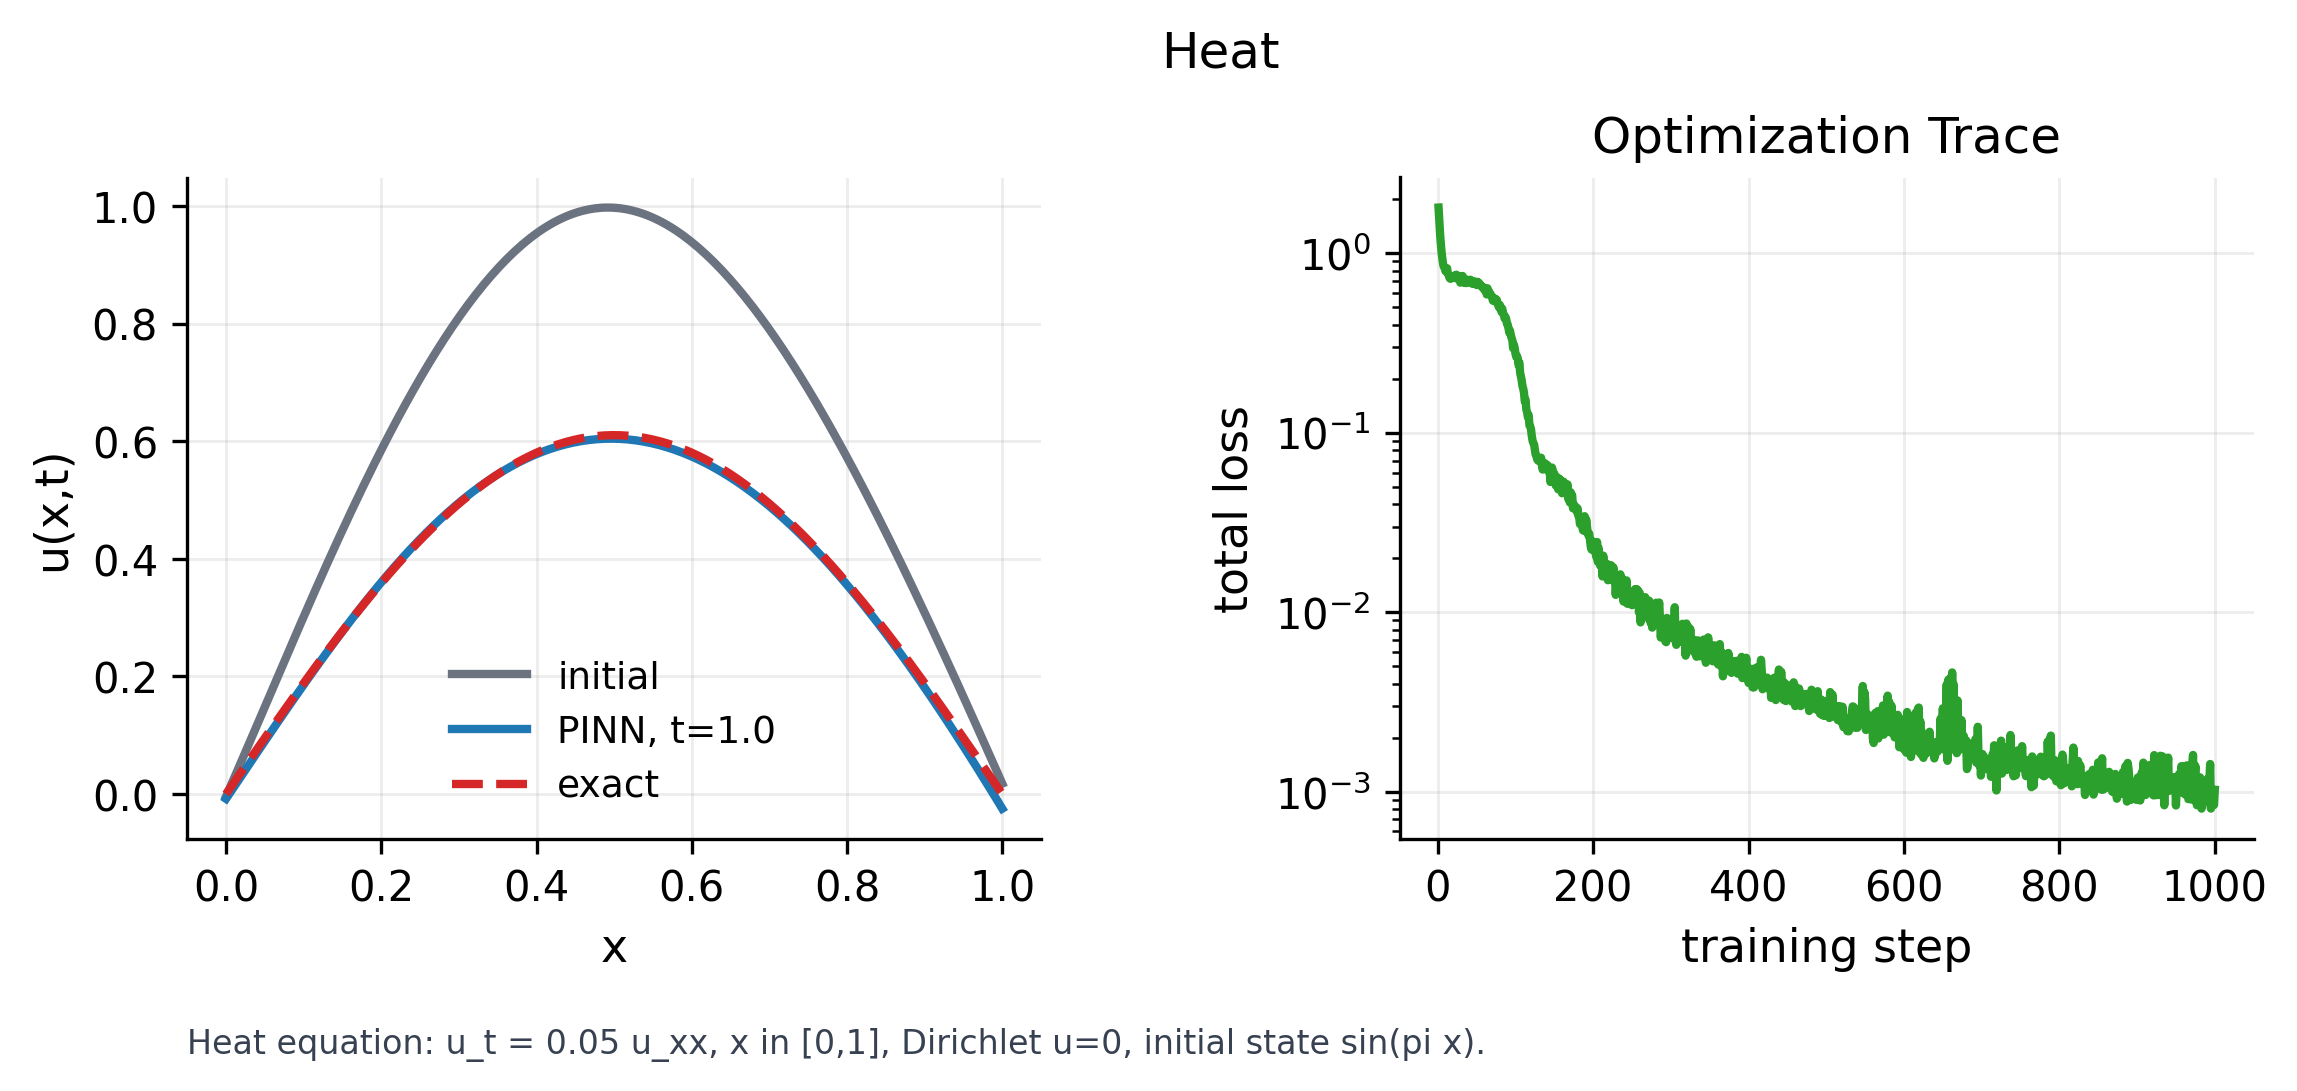
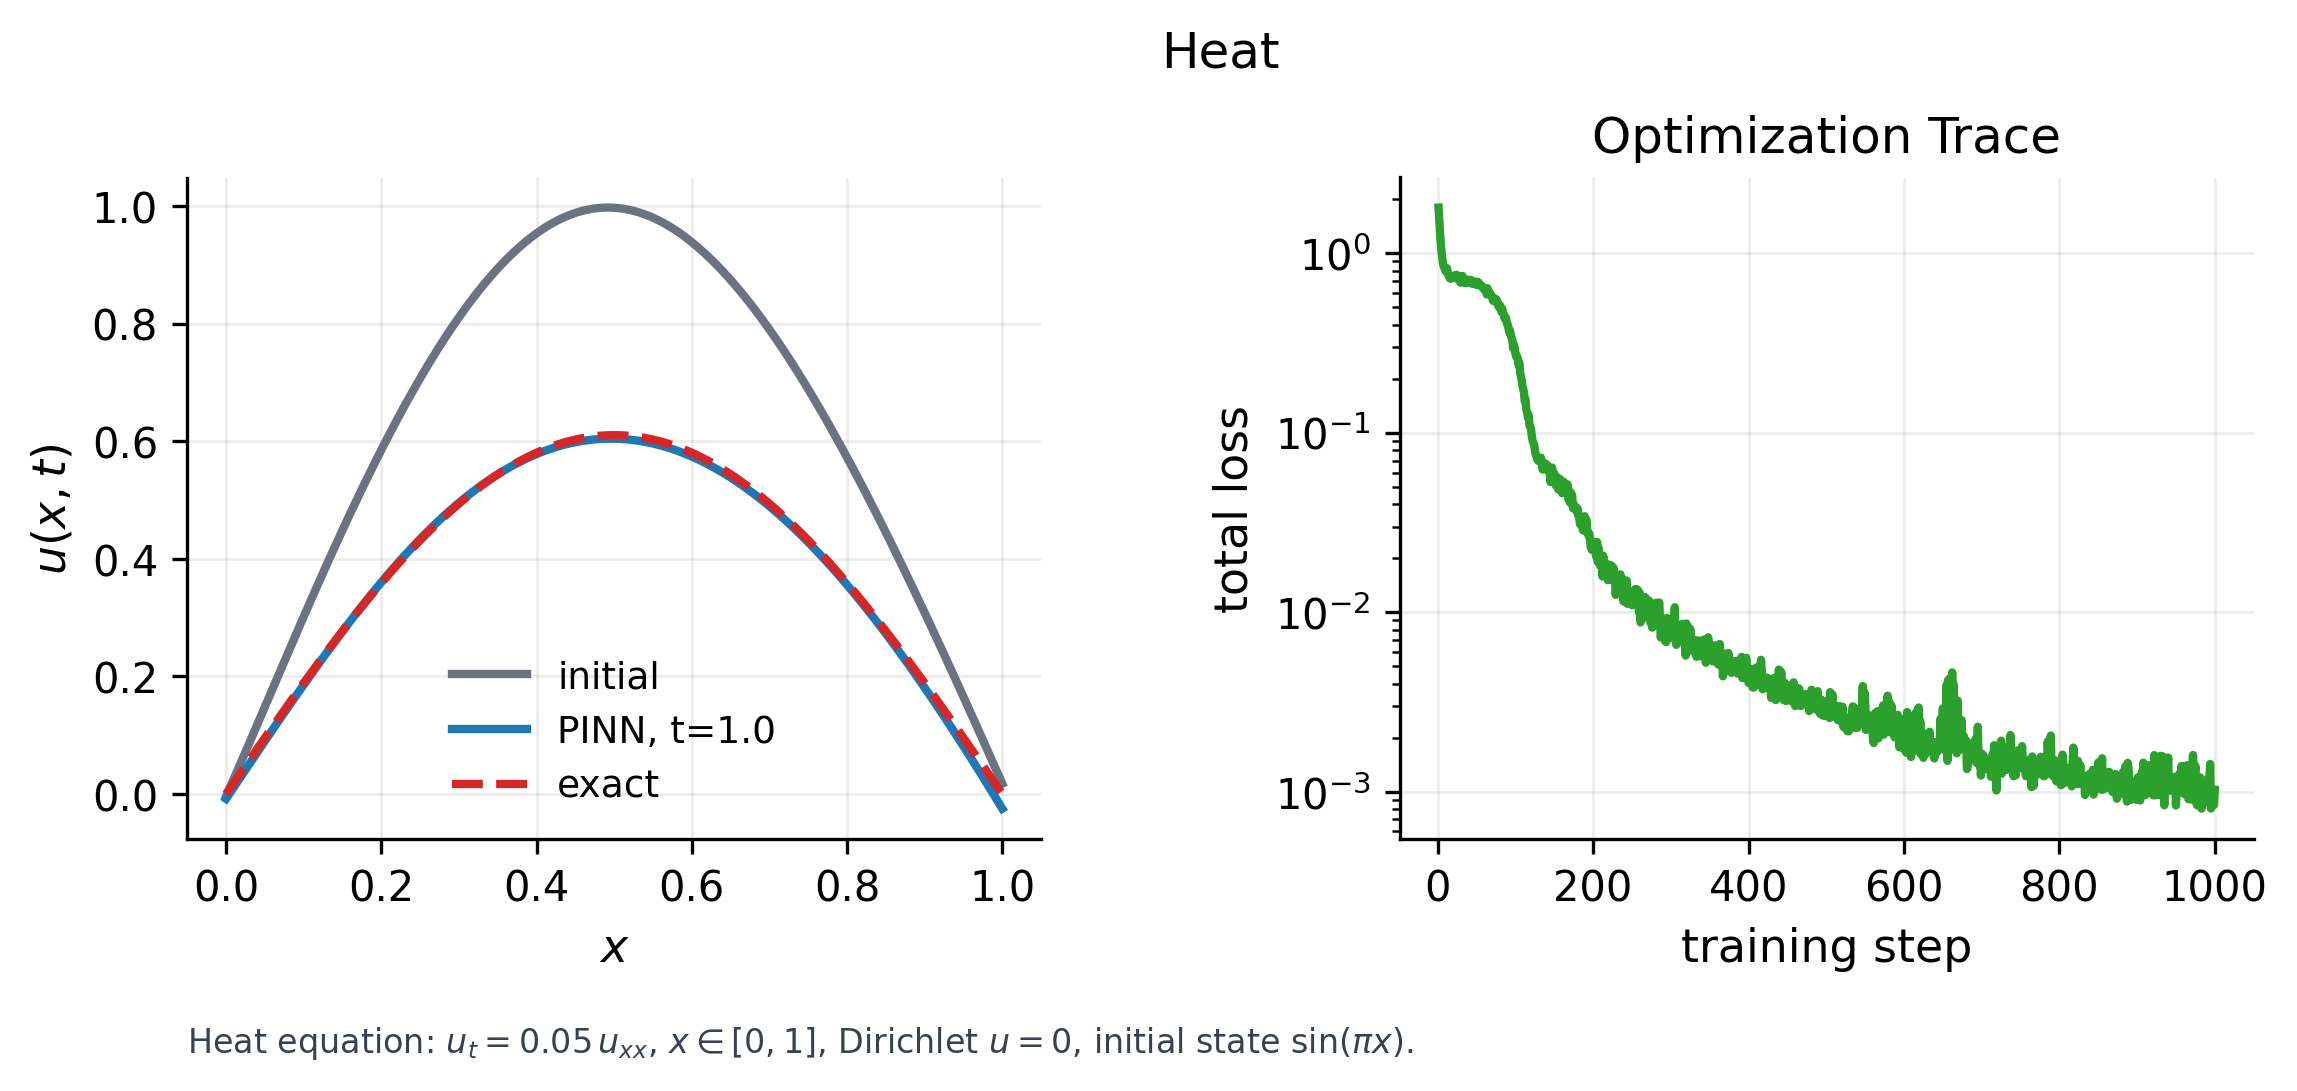
Render public math as LaTeX

Changed region(s): [[0.0927, 0.9349, 0.6491, 0.9661], [0.0, 0.4051, 0.0309, 0.5298]]

diff --git a/examples/canonical_cases.py b/examples/canonical_cases.py
@@ -271,8 +271,8 @@ def plot_case(
             if name == "heat":
                 exact = torch.exp(-0.05 * torch.pi**2 * t1) * torch.sin(torch.pi * x)
                 ax.plot(x.cpu(), exact.cpu(), "--", color=COLORS["secondary"], label="exact")
-            ax.set_xlabel("x")
-            ax.set_ylabel("u(x,t)")
+            ax.set_xlabel(r"$x$")
+            ax.set_ylabel(r"$u(x,t)$")
             ax.legend(frameon=False)
             history = [item["loss"] for item in trainer.history]
             loss_ax.semilogy(range(1, len(history) + 1), history, color=COLORS["accent"])
@@ -280,9 +280,9 @@ def plot_case(
             loss_ax.set_ylabel("total loss")
             loss_ax.set_title("Optimization Trace")
             if name == "heat":
-                caption(ax, "Heat equation: u_t = 0.05 u_xx, x in [0,1], Dirichlet u=0, initial state sin(pi x).")
+                caption(ax, r"Heat equation: $u_t=0.05\,u_{xx}$, $x\in[0,1]$, Dirichlet $u=0$, initial state $\sin(\pi x)$.")
             else:
-                caption(ax, "Advection-diffusion: u_t + u_x = 0.02 u_xx, x in [0,1], localized Gaussian initial pulse.")
+                caption(ax, r"Advection-diffusion: $u_t+u_x=0.02\,u_{xx}$, $x\in[0,1]$, localized Gaussian initial pulse.")
         else:
             bounds = (0.0, 1.0) if name == "poisson" else (-4.0, 4.0)
             x = torch.linspace(*bounds, 240).reshape(-1, 1)
@@ -293,9 +293,9 @@ def plot_case(
                 exact = torch.sin(torch.pi * x).cpu()
                 axes[0].plot(x.cpu(), exact, "--", color=COLORS["secondary"], label="exact")
                 axes[1].plot(x.cpu(), torch.abs(y - exact), color=COLORS["accent"])
-                axes[1].set_ylabel("|error|")
+                axes[1].set_ylabel(r"$|u_{\mathrm{PINN}}-u_{\mathrm{exact}}|$")
                 axes[1].set_title("Pointwise Error")
-                caption(axes[0], "Poisson equation: u_xx = -pi^2 sin(pi x), x in [0,1], u(0)=u(1)=0; exact solution is sin(pi x).")
+                caption(axes[0], r"Poisson equation: $u_{xx}=-\pi^2\sin(\pi x)$, $x\in[0,1]$, $u(0)=u(1)=0$; exact solution is $\sin(\pi x)$.")
             if name == "schrodinger":
                 ref_x, ref_psi, ref_energy = finite_difference_schrodinger_reference(potential(potential_name), bounds, points=len(x))
                 v = potential(potential_name)(x).cpu()
@@ -306,8 +306,8 @@ def plot_case(
                 axes[0].plot(ref_x.cpu(), ref_psi.cpu(), "--", color=COLORS["secondary"], label="FD reference")
                 twin = axes[0].twinx()
                 twin.spines["right"].set_visible(True)
-                twin.plot(x.cpu(), v, ":", color=COLORS["muted"], label="V(x)")
-                twin.set_ylabel("V(x)")
+                twin.plot(x.cpu(), v, ":", color=COLORS["muted"], label=r"$V(x)$")
+                twin.set_ylabel(r"$V(x)$")
                 axes[1].plot(x.cpu(), y_norm.square(), color=COLORS["primary"], label="PINN")
                 axes[1].plot(ref_x.cpu(), ref_psi.square().cpu(), "--", color=COLORS["secondary"], label="FD reference")
                 axes[1].set_ylabel(r"$|\psi(x)|^2$")
@@ -315,19 +315,19 @@ def plot_case(
                 energy = trainer.model.scalars["energy"].detach().cpu().item()
                 energy_error = abs(energy - ref_energy)
                 axes[0].text(
-                    0.03,
-                    0.92,
-                    f"PINN E = {energy:.3f}\nFD E = {ref_energy:.3f}\n|Delta E| = {energy_error:.3f}",
+                    0.08,
+                    0.86,
+                    f"PINN: $E={energy:.3f}$\nFD: $E={ref_energy:.3f}$\n$|\\Delta E|={energy_error:.3f}$",
                     transform=axes[0].transAxes,
                     fontsize=8.5,
-                    bbox={"facecolor": "white", "edgecolor": "#d1d5db", "alpha": 0.88},
+                    bbox={"boxstyle": "round,pad=0.35", "facecolor": "white", "edgecolor": "#d1d5db", "alpha": 0.9},
                 )
                 axes[1].legend(frameon=False)
-                caption(axes[0], "Stationary Schrodinger equation: -0.5 psi_xx + V(x)psi = E psi; FD reference gives physical scale and convergence check.")
-            axes[0].set_xlabel("x")
-            axes[0].set_ylabel("u(x)" if name == "poisson" else r"$\psi(x)$")
+                caption(axes[0], r"Stationary Schrodinger equation: $-\frac{1}{2}\psi_{xx}+V(x)\psi=E\psi$; FD reference gives physical scale and convergence check.")
+            axes[0].set_xlabel(r"$x$")
+            axes[0].set_ylabel(r"$u(x)$" if name == "poisson" else r"$\psi(x)$")
             axes[0].legend(frameon=False)
-            axes[1].set_xlabel("x")
+            axes[1].set_xlabel(r"$x$")
     title = f"Schrodinger: {potential_name.replace('_', ' ').title()}" if name == "schrodinger" else name.replace("_", " ").title()
     fig.suptitle(title, y=0.95)
     return save_figure(fig, output, formats)

diff --git a/README.md b/README.md
@@ -54,19 +54,19 @@ These examples show how a PINN uses neural-network derivatives to satisfy a PDE 
 
 ![Poisson PINN case](docs/figures/poisson.png)
 
-The left panel compares the PINN solution with the exact solution. The right panel shows pointwise error. This is the simplest check that the residual and boundary losses are wired correctly.
+The case solves $u_{xx}=-\pi^2\sin(\pi x)$ on $x\in[0,1]$ with $u(0)=u(1)=0$. The left panel compares the PINN solution with the exact solution $u(x)=\sin(\pi x)$; the right panel shows pointwise error.
 
 ### Heat: time-dependent diffusion
 
 ![Heat PINN case](docs/figures/heat.png)
 
-The solution should smooth/decay over time. The right panel shows the optimization trace, so new runs should be judged by both the curve shape and whether the loss actually converges.
+The case solves $u_t=\nu u_{xx}$ with $\nu=0.05$ and initial condition $u(x,0)=\sin(\pi x)$. The solution should decay smoothly; the right panel shows whether the PINN loss converges.
 
 ### Schrodinger: eigenstate with physical reference
 
 ![Schrodinger PINN case](docs/figures/schrodinger_harmonic.png)
 
-The learned wavefunction is compared with a finite-difference reference. The energy and probability-density panels are the main physical checks; a visually smooth wavefunction is not enough.
+The case solves the stationary Schrodinger eigenproblem $-\frac{1}{2}\psi_{xx}+V(x)\psi=E\psi$ for the harmonic potential $V(x)=\frac{1}{2}x^2$. The figure compares $\psi(x)$, $|\psi(x)|^2$, and $E$ against a finite-difference reference.
 
 ## Run Examples
 